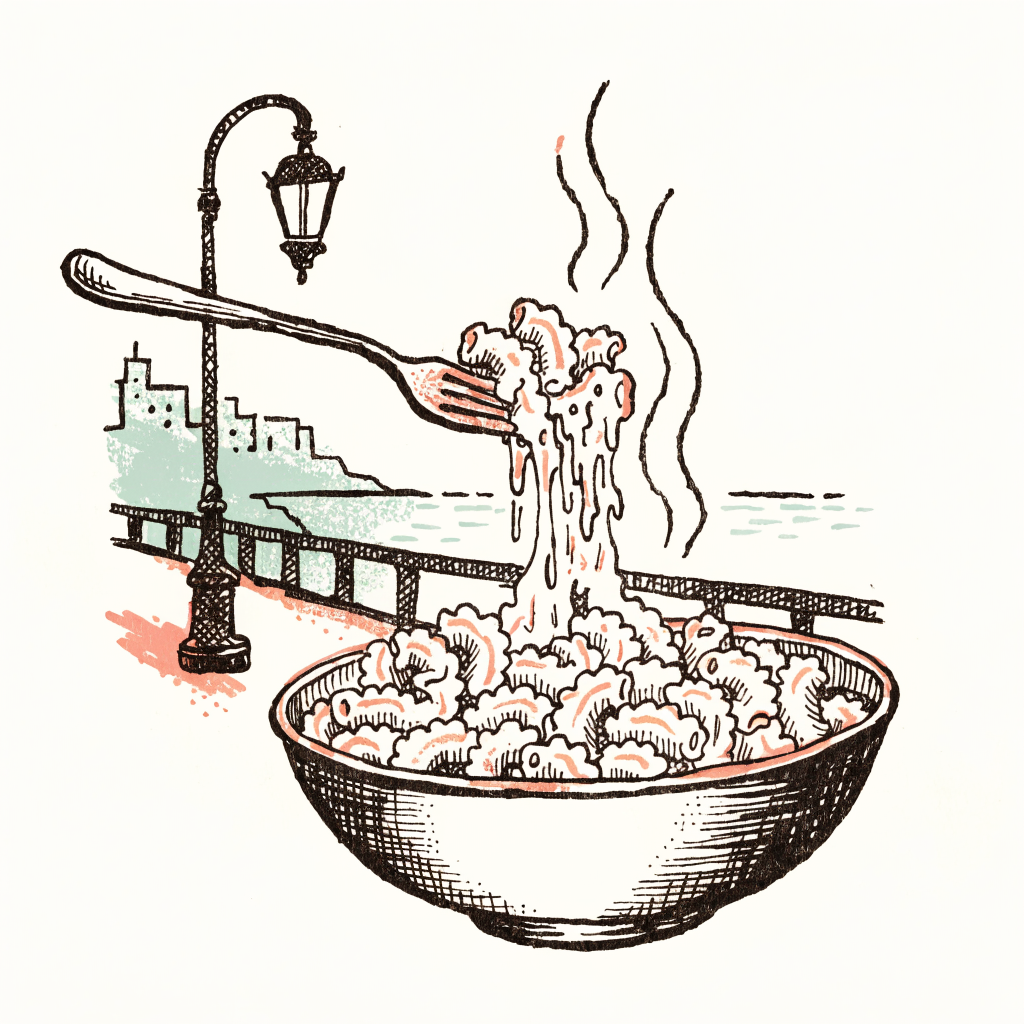
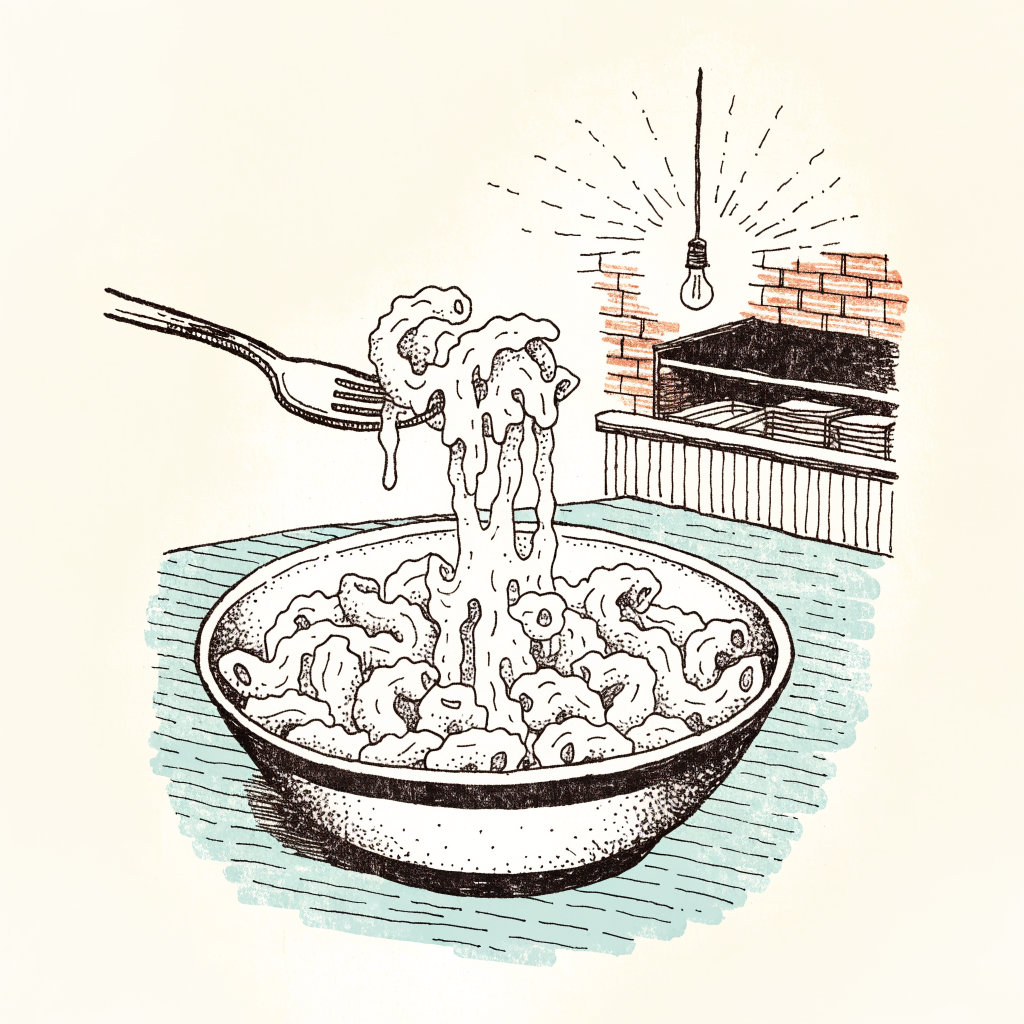
content: rework location pills to true SoKno geography (Old Sevier / Ijams Park / Kern's); replace Roni's engraving with a no-water food-hall scene; add location vocabulary to lexicon

diff --git a/content/LEXICON.md b/content/LEXICON.md
@@ -39,3 +39,20 @@ A living reference for how words are **said** (audio briefings / ElevenLabs) and
   Schema: `Story.sources: { label, url? }[]` → renders a "Source(s):" line at the foot
   of the article. Use the `agenda` block (time → activity rows) for event schedules
   when the times are definitively sourced.
+
+## SoKno locations (the pill vocabulary)
+
+Story **labels are geographic location pills** — make them accurate. Keep one color per
+place for recognition: **Old Sevier = rust, Ijams Park = teal, Kern's = green.**
+
+- **Old Sevier** — the Sevier Avenue corridor (the main drag); Honeybee Coffee, Alliance
+  Brewing, SouthSide Garage, the Pink Cactus, Fly by Night.
+- **Kern's** — the Kern's Bakery / Food Hall pocket. Its own SoKno section, **no water
+  view** (starts ~2 cross streets up from the river). Roni's Mac Bar lives here.
+- **Ijams Park** — Ijams Nature Center / Meads Quarry; its own call-out (fireflies, bird
+  banding, the bluegrass jam). Say "Ijams Park," never just "nature center."
+- **Urban Wilderness** — the trail district, anchored by a converted church that now holds
+  a bar, a restaurant, and a bike shop, with miles of mountain-biking trails.
+- **Island Home** — established residential community: older homes, higher property values.
+- **South Waterfront** — a realtor marketing moniker for the riverfront strip; we rarely
+  use it (it's just South Knoxville).
